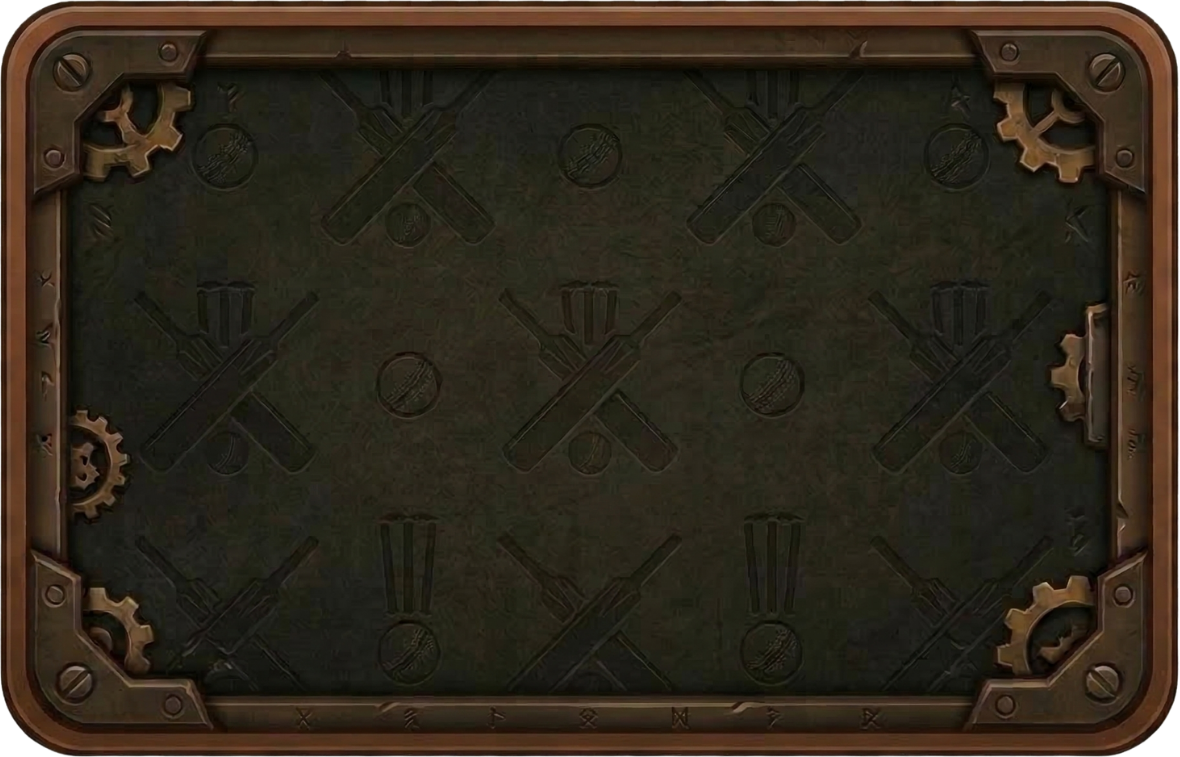
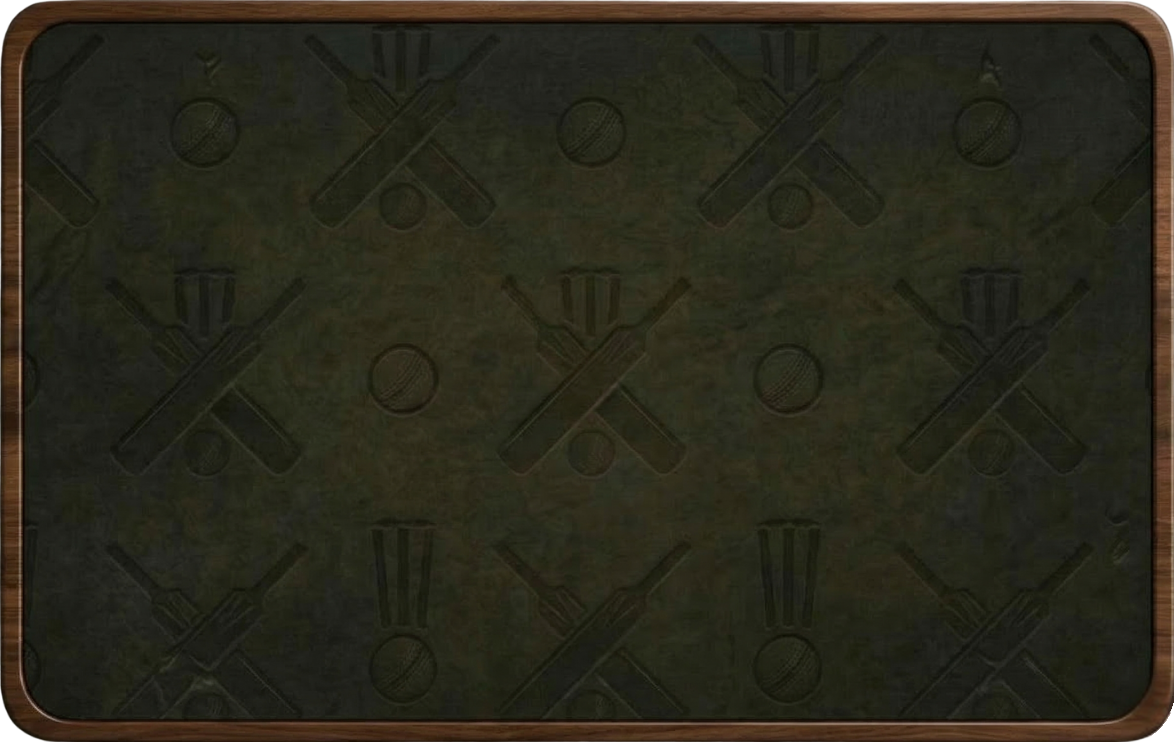
Added README & New main bg image

Changed region(s): [[0.0, 0.0, 1.0, 1.0], [0.4906, 0.527, 0.5213, 0.558]]

diff --git a/Assignment 2 (Cricket Game)/cricket-game/README.md b/Assignment 2 (Cricket Game)/cricket-game/README.md
@@ -1,16 +1,77 @@
-# React + Vite
+# 🏏 Lucky Shot - React Cricket Game
 
-This template provides a minimal setup to get React working in Vite with HMR and some ESLint rules.
+A physics-driven, fully responsive 2D cricket game built entirely with React and modern CSS.  
+No `<canvas>`, no heavy game engines—just clever DOM manipulation, custom projectile math, and modular React state management.
 
-Currently, two official plugins are available:
+## ✨ Features
 
-- [@vitejs/plugin-react](https://github.com/vitejs/vite-plugin-react/blob/main/packages/plugin-react) uses [Babel](https://babeljs.io/) (or [oxc](https://oxc.rs) when used in [rolldown-vite](https://vite.dev/guide/rolldown)) for Fast Refresh
-- [@vitejs/plugin-react-swc](https://github.com/vitejs/vite-plugin-react/blob/main/packages/plugin-react-swc) uses [SWC](https://swc.rs/) for Fast Refresh
+- **Physics-Based Trajectories:** A custom 20ms physics loop calculates gravity, friction, and bounce vectors for the ball's delivery and return trajectory.
+- **Probability Power Bar:** Shot outcomes are determined by stopping a high-speed slider over dynamically generated probability segments.
+- **Dynamic Play Styles:** Switch between "Aggressive" and "Defensive" batting styles, which dynamically alter the underlying probability arrays in real-time.
+- **Component-Driven Architecture:** The UI is strictly decoupled from the logic engine, utilizing modular React components (`ScoreBoard`, `PowerBar`, `FieldElements`, etc.) and React Refs for collision detection.
+- **Fluid Responsive Design:** Uses cutting-edge CSS Container Queries (`cqw`), `clamp()`, and `aspect-ratio` to ensure the stadium, UI, and hitboxes scale flawlessly from mobile screens to 4K monitors without relying on media query breakpoints.
+- **Live Commentary Ticker:** A dynamic broadcast system that generates contextual commentary based on the exact outcome of each delivery.
 
-## React Compiler
+## 🛠️ Tech Stack
 
-The React Compiler is not enabled on this template because of its impact on dev & build performances. To add it, see [this documentation](https://react.dev/learn/react-compiler/installation).
+- **Frontend Framework:** React (via Vite)
+- **Styling:** Pure CSS (Vanilla)
+- **Deployment:** Vercel
 
-## Expanding the ESLint configuration
+## ⚙️ Game Logic & Working Mechanism
 
-If you are developing a production application, we recommend using TypeScript with type-aware lint rules enabled. Check out the [TS template](https://github.com/vitejs/vite/tree/main/packages/create-vite/template-react-ts) for information on how to integrate TypeScript and [`typescript-eslint`](https://typescript-eslint.io) in your project.
+### 1. The Physics & Collision Engine
+The game operates on a continuous loop of physics calculations managed within React's architecture. When a shot is played, a `setInterval` loop calculates the ball's trajectory using standard projectile motion (gravity, time delta, velocity). Collision detection is handled by comparing the pixel coordinates of the ball against the Batter and Wicket using `getBoundingClientRect()`, allowing for dynamic hit/miss detection regardless of screen size.
+
+### 2. The Power Bar (Cumulative Probability)
+The Power Bar acts as a visual cumulative distribution function. The game maintains arrays of objects representing shot outcomes and their percentage probabilities. In the UI, these arrays map directly to HTML `<div>` widths. A slider oscillates across this bar; when the player clicks "Play Shot", the current slider integer is checked against the running total of probabilities to determine if the result is a 6, a 4, a dot ball, or a wicket.
+
+### 3. Animation Implementation
+The game avoids heavy external animation libraries by using three distinct web-native techniques:
+- **State-Driven Animation (The Ball):** The ball's `top` and `right` CSS positions are bound to a React state, updated every 20ms to draw its physical location frame-by-frame.
+- **Sprite-Sheet Animation (The Batter):** A classic 2D frame-swapping technique. Upon collision, a rapid interval updates the batter's state from `1.png` sequentially through `8.png`.
+- **Hardware-Accelerated CSS (The Wicket):** Breaking the stumps utilizes pure CSS. When the ball hits the wicket coordinates, JavaScript applies a new CSS `transform` (rotation and translation). The browser's graphics processor smoothly interpolates this transition, scattering the stumps.
+
+## 🚀 How to Run Locally
+
+1. **Clone the repository:**
+   ```bash
+   git clone https://github.com/YOUR_USERNAME/lucky-shot-cricket.git
+   ```
+
+2. **Navigate into the directory:**
+   ```bash
+   cd lucky-shot-cricket
+   ```
+
+3. **Install dependencies:**
+   ```bash
+   npm install
+   ```
+
+4. **Start the Vite development server:**
+   ```bash
+   npm run dev
+   ```
+
+5. **Open your browser and visit `http://localhost:5173/` (or the port provided in your terminal).**
+
+## 📁 Project Structure
+
+```
+├── public/
+│   └── assets/              # Sprites, backgrounds, and fonts
+├── src/
+│   ├── components/          # Modular UI components
+│   │   ├── MainMenu.jsx
+│   │   ├── GameOverMenu.jsx
+│   │   ├── Navbar.jsx
+│   │   ├── ScoreBoard.jsx
+│   │   ├── PowerBar.jsx
+│   │   ├── PlayShotButton.jsx
+│   │   └── FieldElements.jsx
+│   ├── App.jsx              # Core logic, physics loop, and state management
+│   ├── index.css            # Global responsive styles and CSS variables
+│   └── main.jsx             # React DOM entry point
+└── package.json
+```